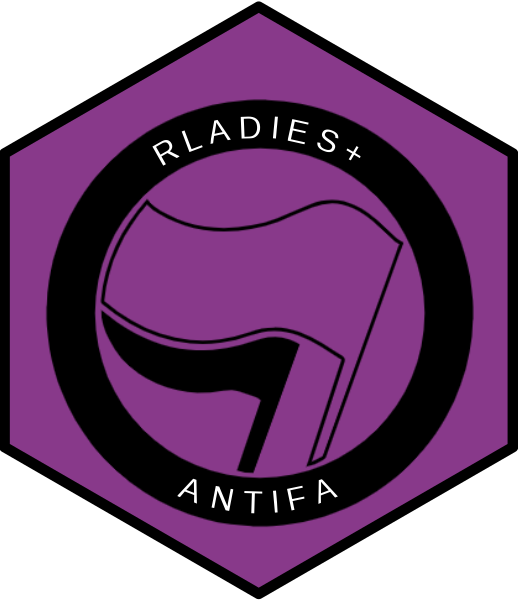
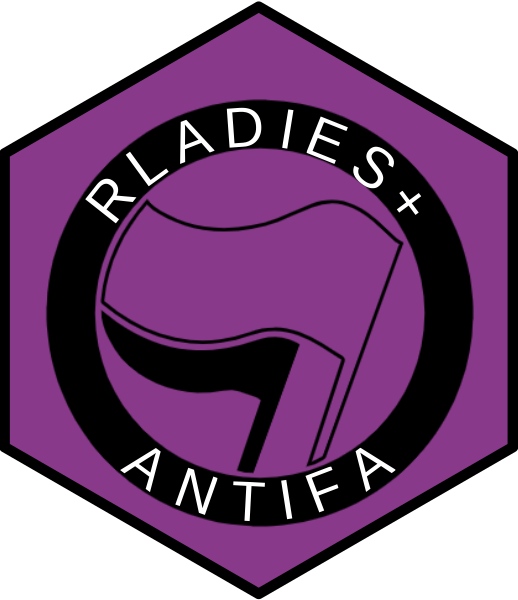
now size of text is bigger and a parameter

diff --git a/README.md b/README.md
@@ -37,7 +37,7 @@ img <- readPNG("figs/noun_Antifa_1245689.png")
 Finally, we create the hexSticker:
 
 ``` r
-sticker(~ antifa(),
+sticker(~ antifa(size = 3.5),
         package = "",
         s_x = .7, s_y = .7,
         s_width = 3.5, s_height = 3.5,
